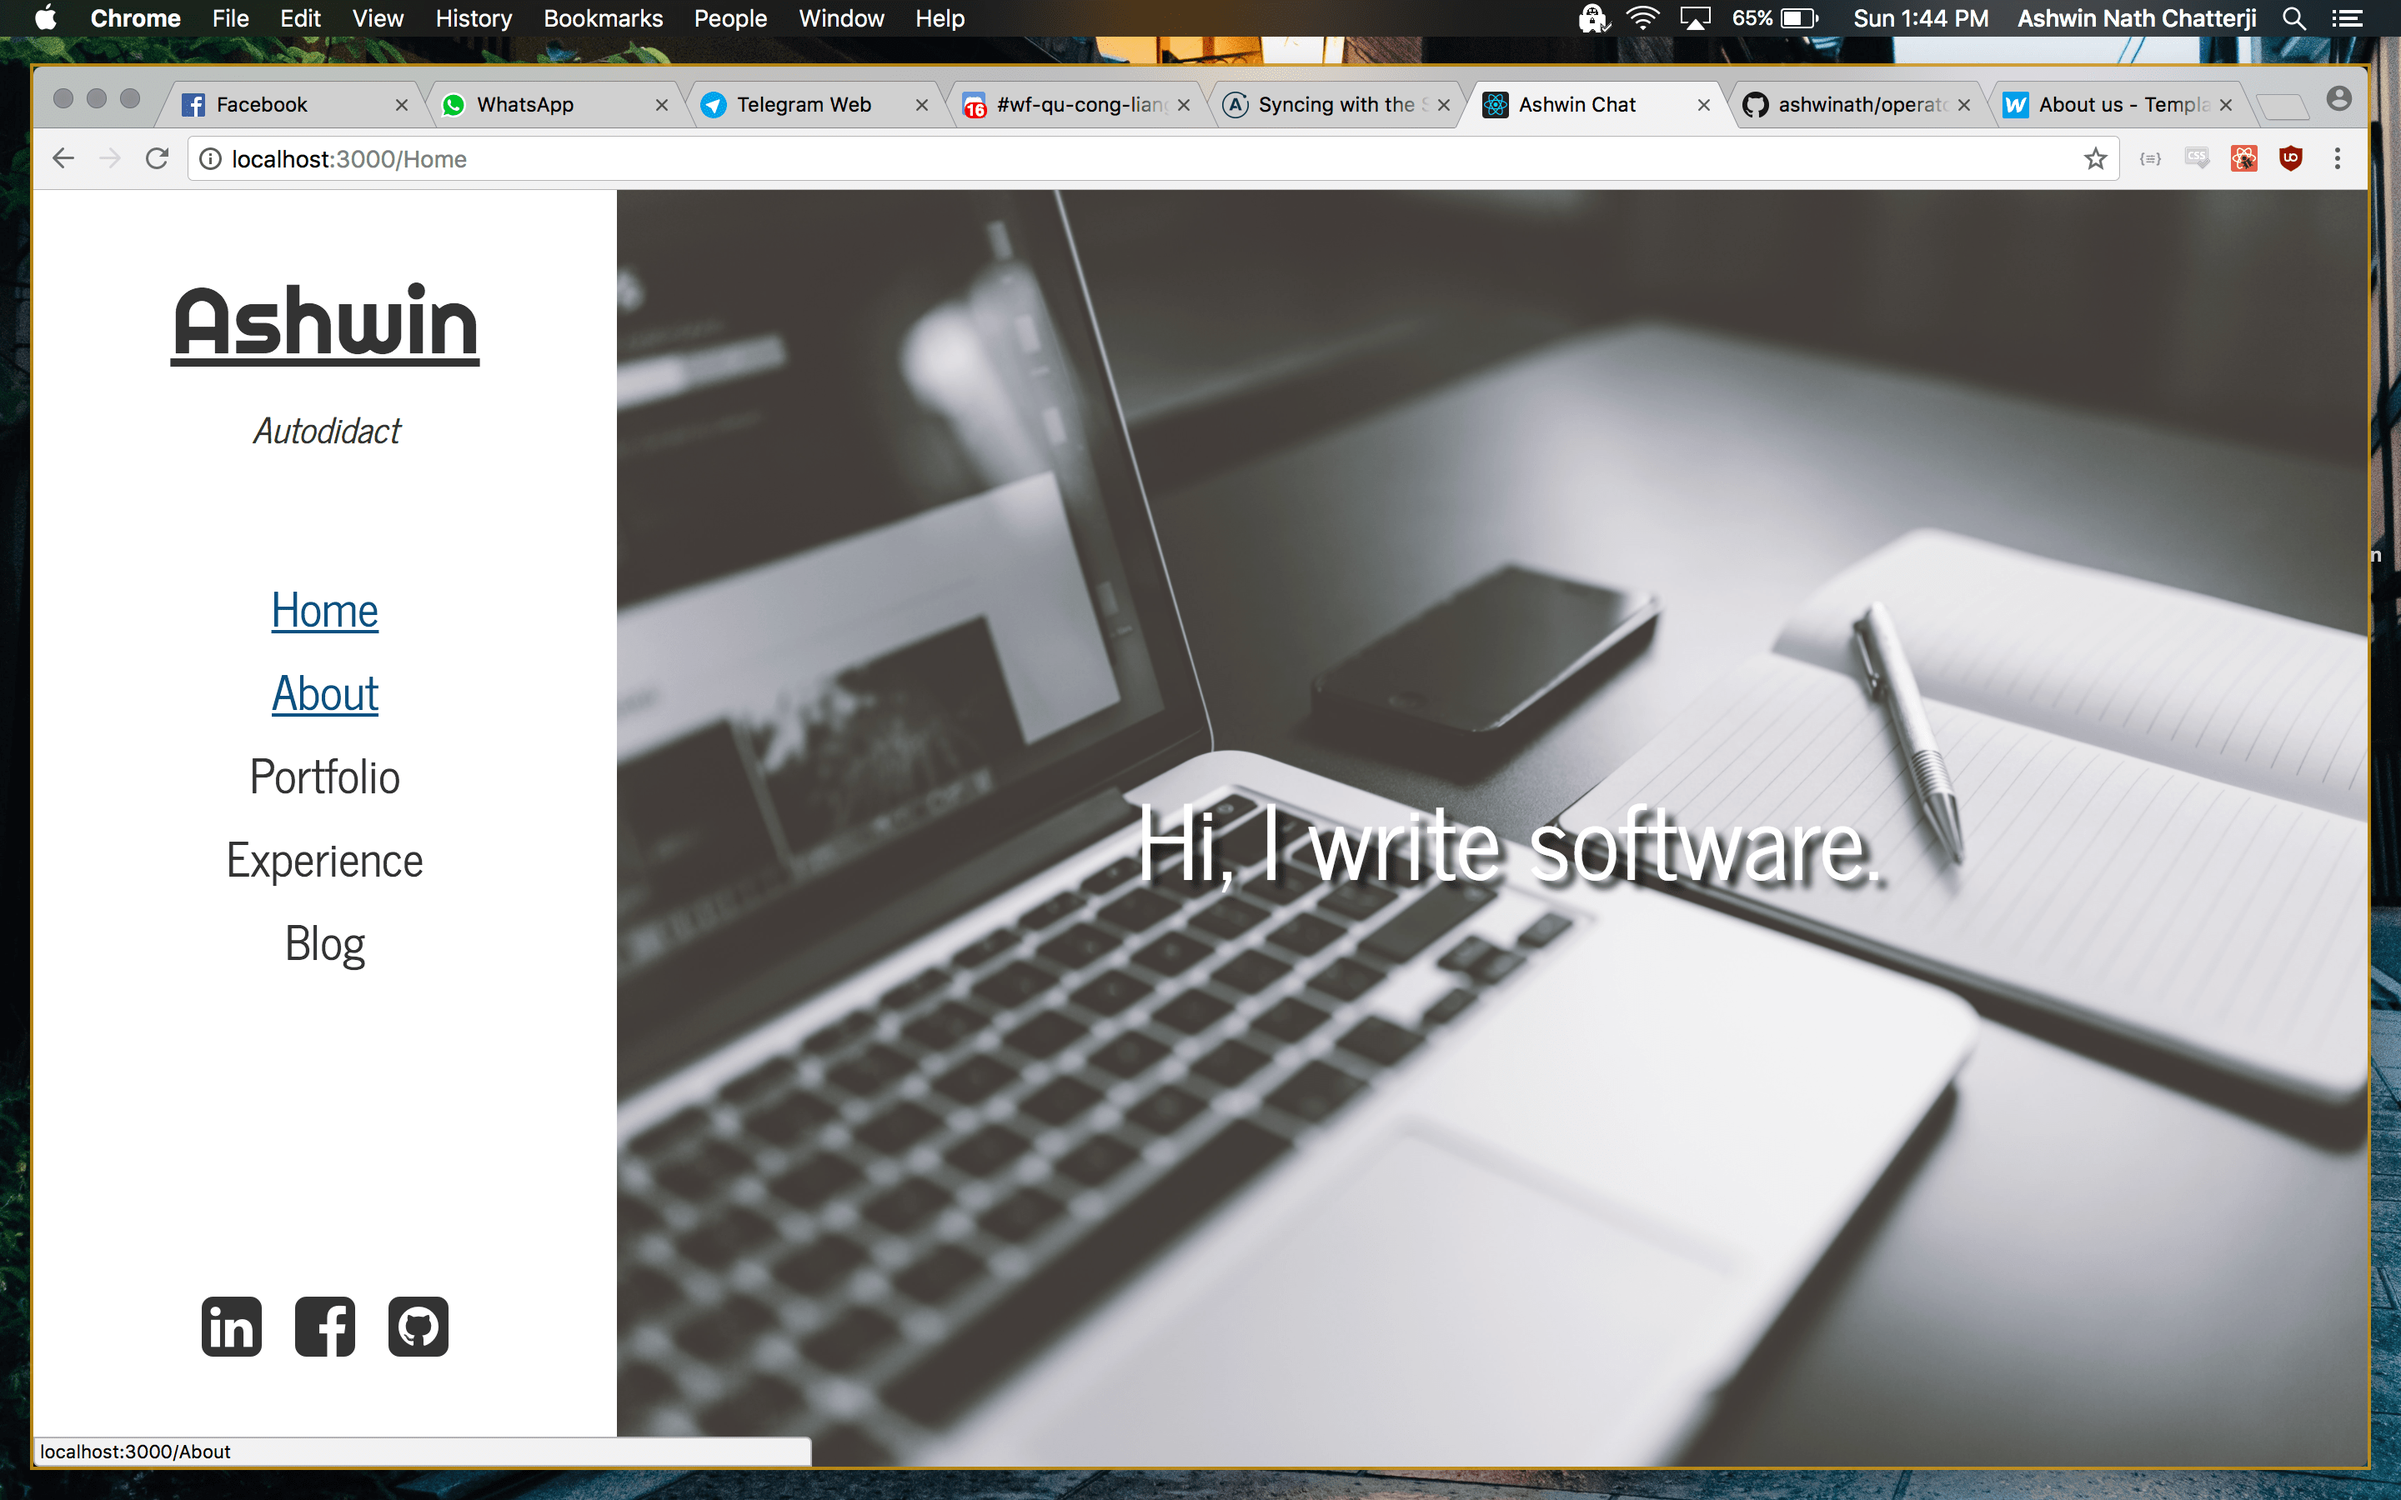
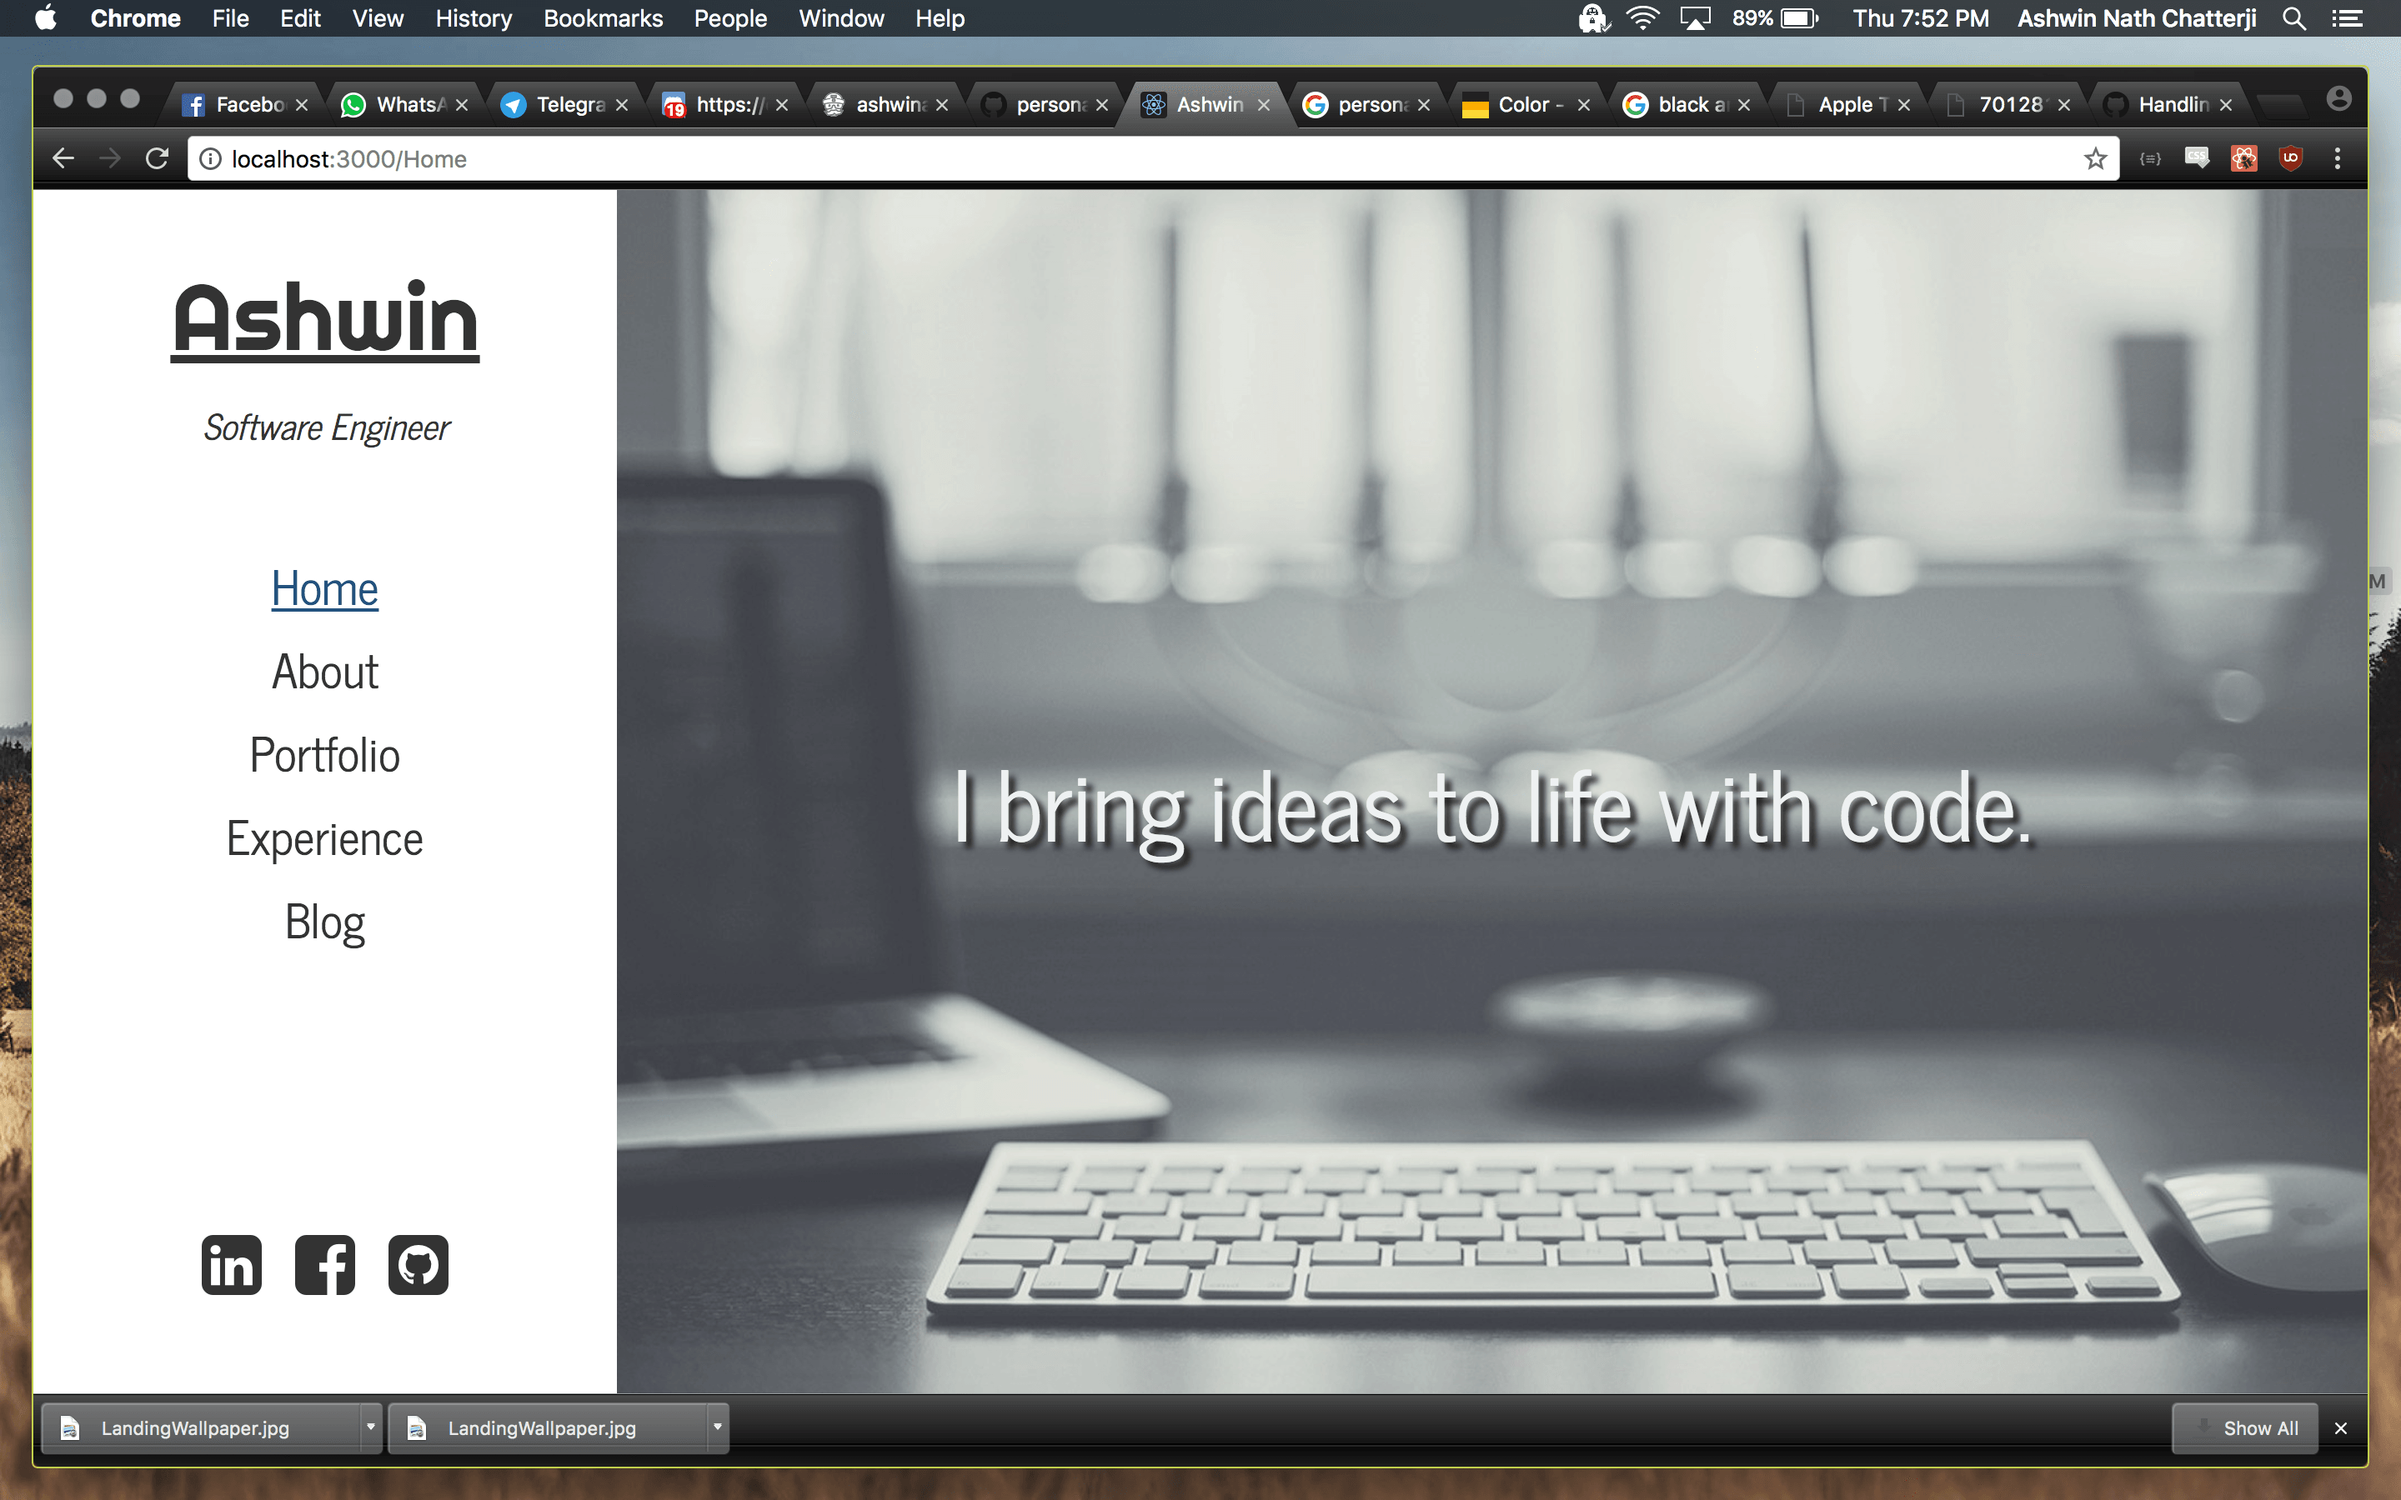
changed wallpaper again

diff --git a/src/App.css b/src/App.css
@@ -87,7 +87,7 @@ html, body, #root, #router, #side-bar, .main-section {
 #landing-content h1 {
   color: #ECEFF1;
   font-size: 8vh;
-  text-shadow: 10px 10px 10px #000;
+  text-shadow: 4px 4px 4px #000;
 }
 
 #brand {
